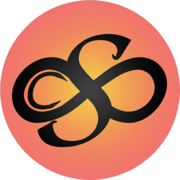
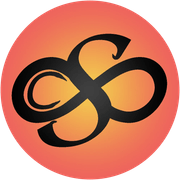
Icona del sito rigenerata dall'originale in alta definizione
Le icone derivavano da una copia a 256 px con il disco leggermente trasparente, che sui fondi scuri usciva spento. Ora partono dall'originale: icon.png a 512 px (la misura che il manifest deve offrire per l'installazione), apple-icon.png a 180 px e favicon.ico a 16, 32 e 48 px, con il disco pieno e il fondo trasparente.

Il manifest dichiara la nuova misura e un test E2E verifica che ogni icona sia servita con le dimensioni dichiarate.

diff --git a/e2e/seo.spec.ts b/e2e/seo.spec.ts
@@ -103,6 +103,19 @@ test('the manifest is complete', async ({ request }) => {
   expect(manifest.icons.length).toBeGreaterThan(0);
 });
 
+test('every manifest icon is served at the size it declares', async ({ request }) => {
+  const manifest = await (await request.get('/manifest.webmanifest')).json();
+  expect(manifest.icons.map((icon: { sizes: string }) => icon.sizes)).toContain('512x512');
+
+  for (const icon of manifest.icons as { src: string; sizes: string }[]) {
+    const response = await request.get(icon.src);
+    expect(response.status(), icon.src).toBe(200);
+    // A PNG stores width and height as two big-endian integers right after the IHDR tag.
+    const body = await response.body();
+    expect(`${body.readUInt32BE(16)}x${body.readUInt32BE(20)}`, icon.src).toBe(icon.sizes);
+  }
+});
+
 test('legacy PHP URLs still redirect', async ({ request }) => {
   for (const [from, to] of [
     ['/index.php', '/'],

diff --git a/app/manifest.ts b/app/manifest.ts
@@ -20,7 +20,7 @@ export default function manifest(): MetadataRoute.Manifest {
     background_color: THEME.dark.paper,
     theme_color: THEME.dark.paper,
     icons: [
-      { src: '/icon.png', sizes: '256x256', type: 'image/png' },
+      { src: '/icon.png', sizes: '512x512', type: 'image/png' },
       { src: '/apple-icon.png', sizes: '180x180', type: 'image/png' },
     ],
   };
